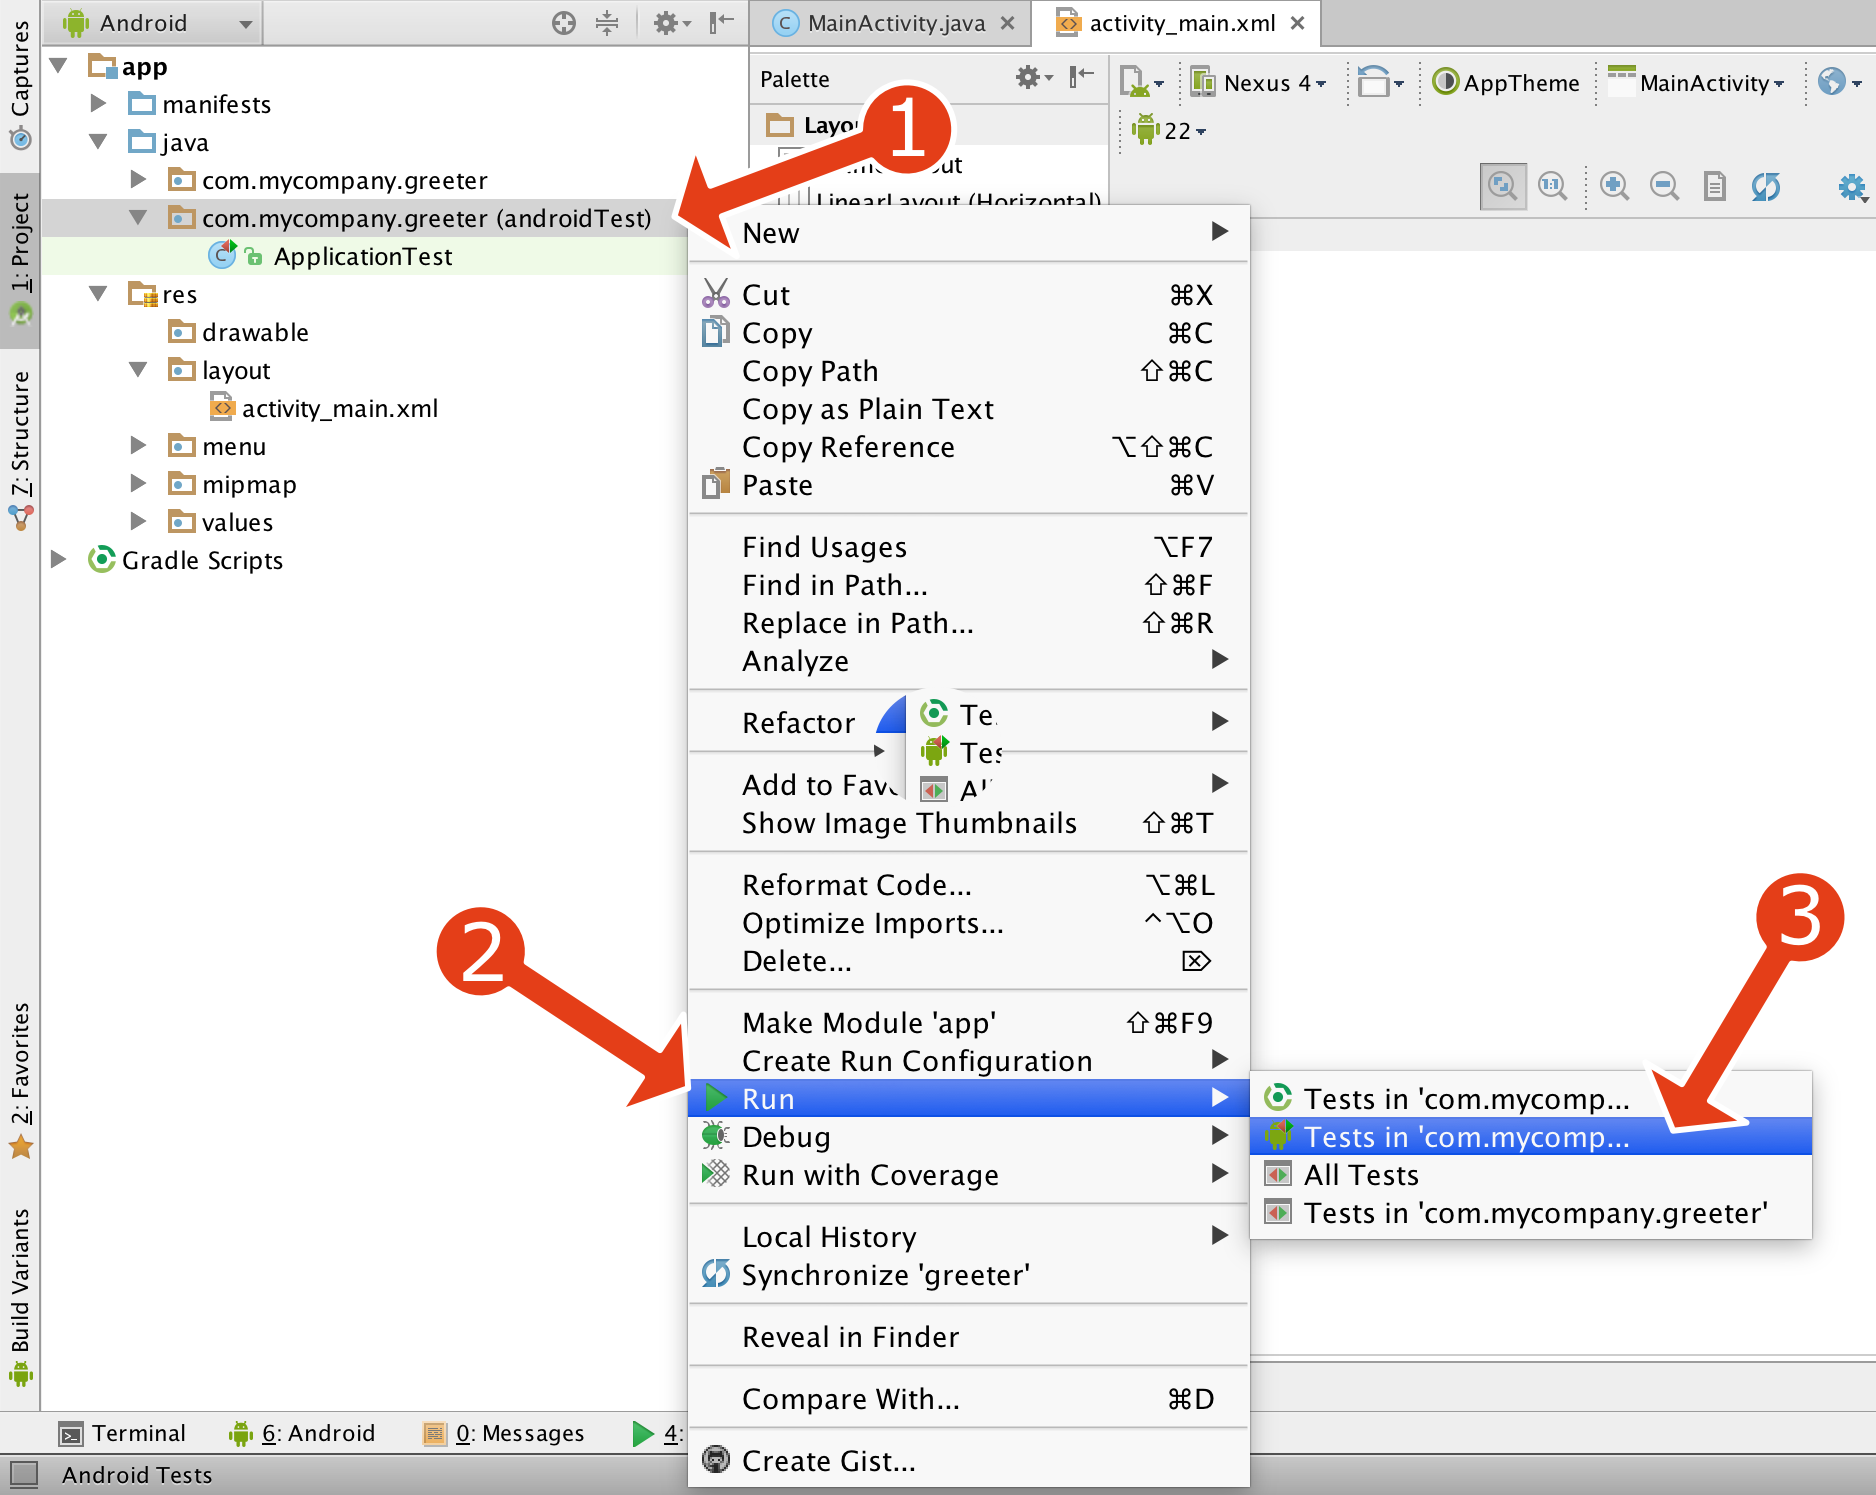
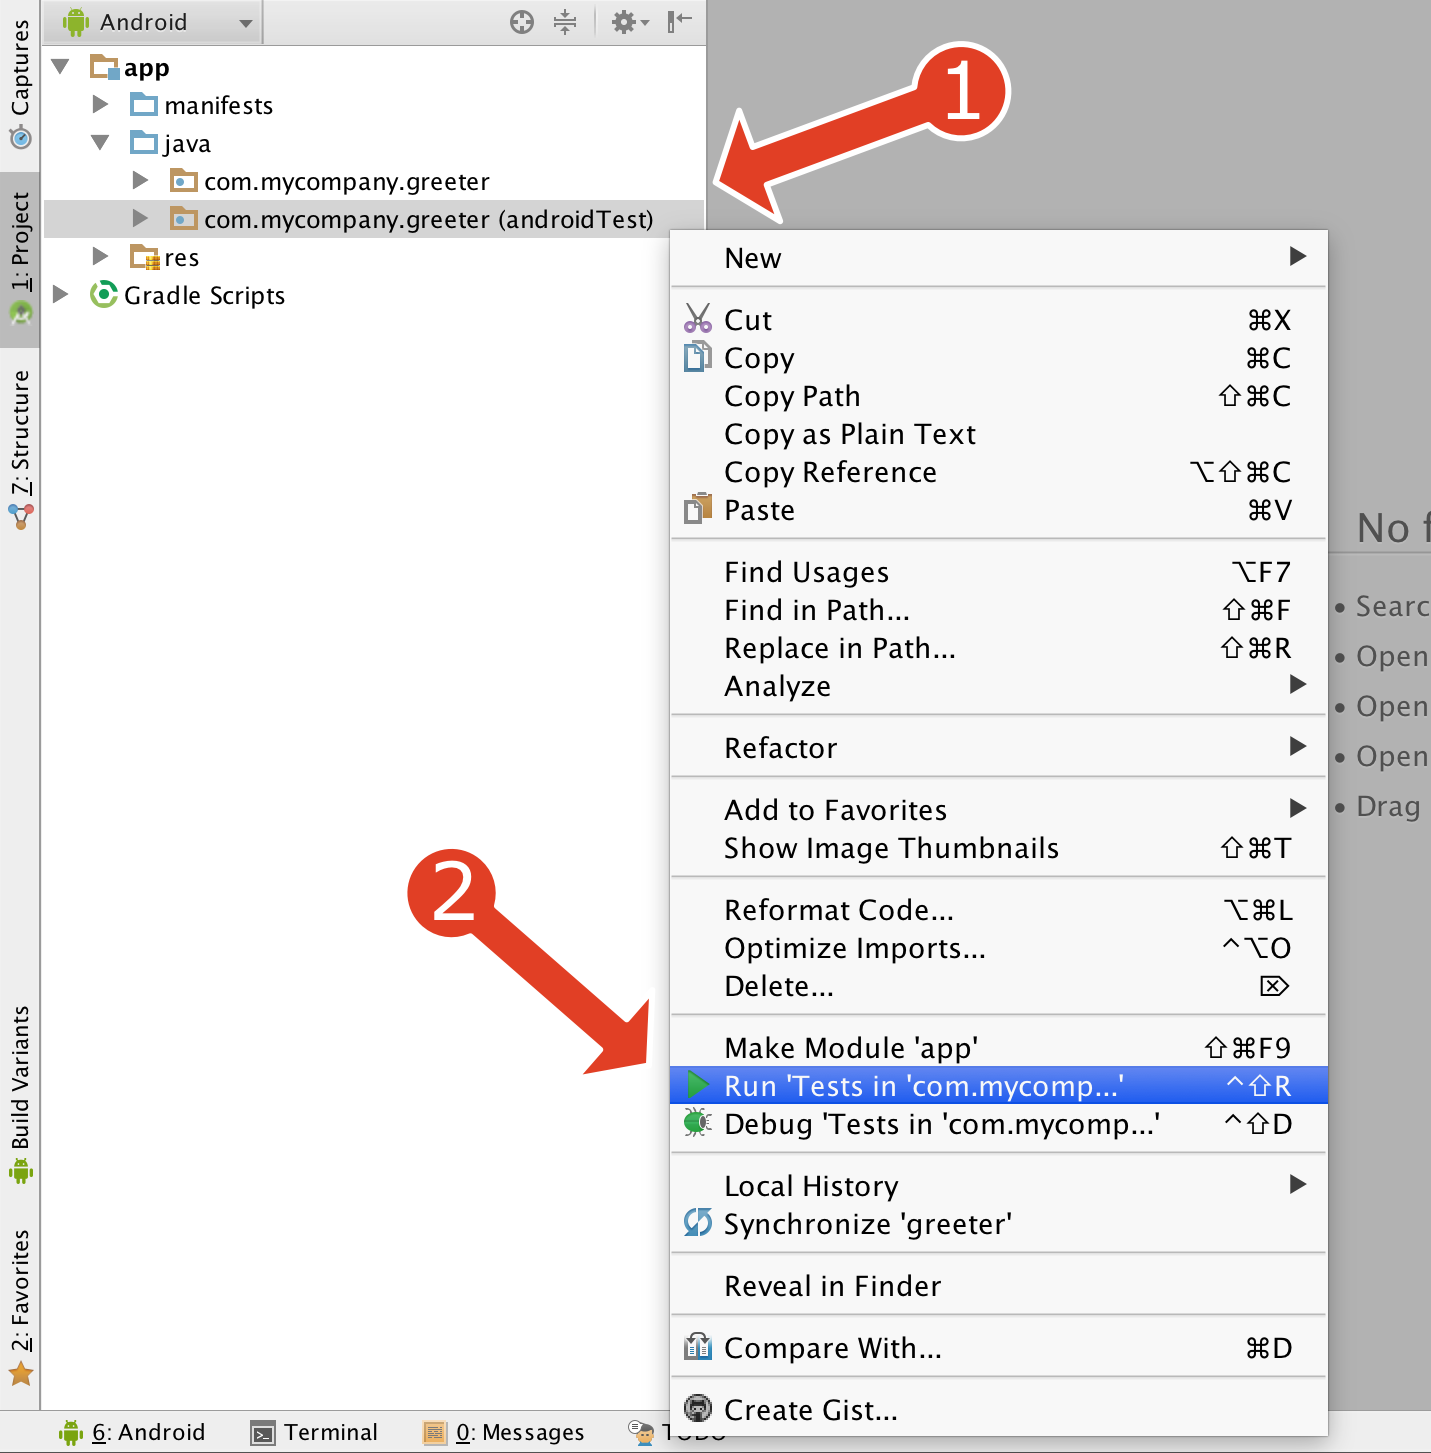
Optimize images

Changed region(s): [[0.0, 0.0, 1.0, 1.0], [0.8609, 0.5575, 0.8917, 0.6813]]

diff --git a/blog/_posts/2015-03-29-testing-activity-in-android-studio-tutorial-part-1.md b/blog/_posts/2015-03-29-testing-activity-in-android-studio-tutorial-part-1.md
@@ -71,13 +71,9 @@ We need to create a test configuration the first time we run the tests. There ar
 
 * In your project window expand **app > java** folders.
 * You will see two packages with the same name **com.mycompany.greeter**. The second one will have **(androidTest)**. Right-click on that one.
-* Select **Run > Tests in 'com.mycomp...** from the context menu.
+* Select **Run  'Tests in 'com.mycomp...'** from the context menu.
 
 ![Create test configuration and run tests](/image/blog/2015-03-27-testing-ui-in-android-studio/0200_create_test_configuration_in_android_studio.png)
-
-There are two menu items with text **Tests in 'com.mycomp...**. You need to select the one with green Android robot.
-
-![Select robot](/image/blog/2015-03-27-testing-ui-in-android-studio/0205_create_test_configuration_in_android_studio_select_robot.png)
 
 * Finally, select your device or emulator in the next dialog and it will run the tests.
 
